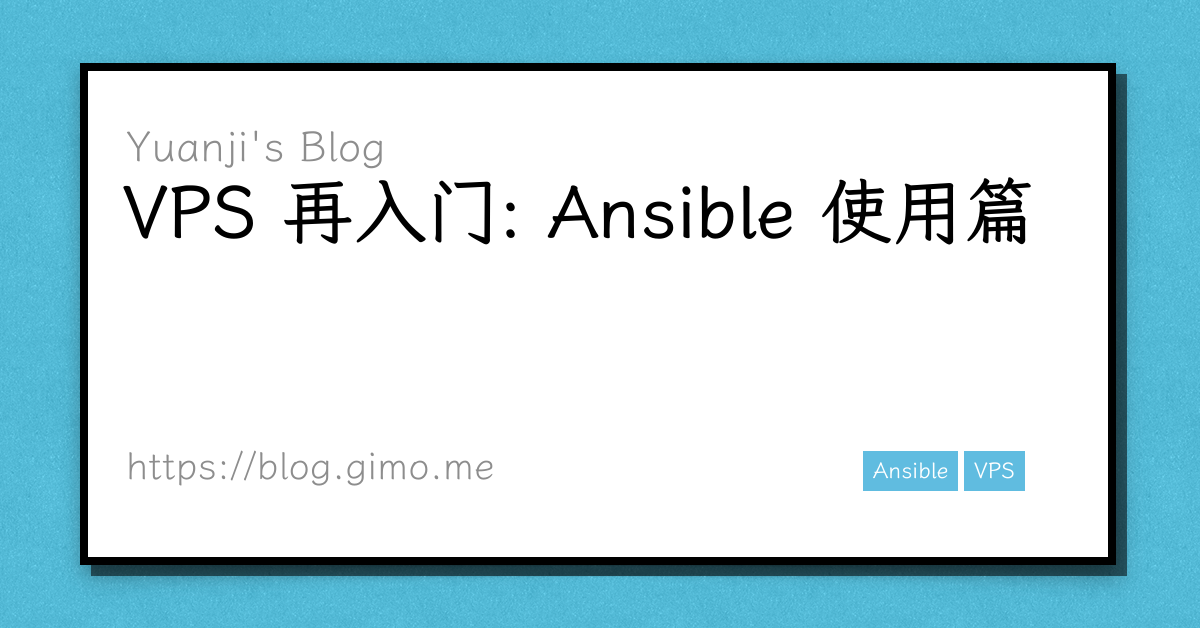
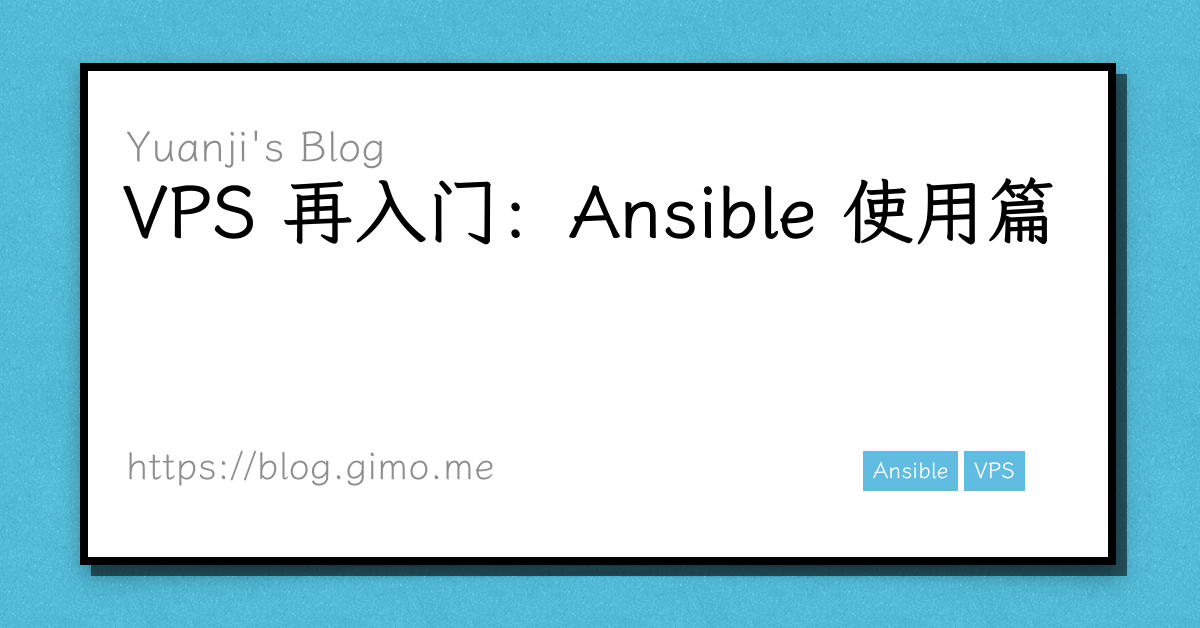
feat(cover): add cover.sh to generate covers

Changed region(s): [[0.4008, 0.2723, 0.8942, 0.3933]]

diff --git a/README.md b/README.md
@@ -1,7 +1,8 @@
 # Yuanji's Blog
 
-共计 48 篇文章
+共计 49 篇文章
 ## 2021
+- 10-15 [VPS再入门：选购篇](content/posts/VPS再入门：选购篇/index.md)
 - 10-13 [给博客文章自动生成分享图](content/posts/给博客文章自动生成分享图/index.md)
 - 08-29 [动手写一个 Hugo 博客主题](content/posts/动手写一个Hugo主题/index.md)
 - 04-25 [Vehicle](content/posts/Vehicle/index.md)
@@ -19,8 +20,8 @@
 ## 2019
 - 12-11 [使用 DokuWiki 的感受](content/posts/使用DokuWiki的感受/index.md)
 - 10-25 [令和元年中途转职记录](content/posts/令和元年中途转职记录/index.md)
-- 10-22 [VPS 再入门: 自建服务篇](content/posts/VPS再入门：自建服务篇/index.md)
-- 10-19 [VPS 再入门: Ansible 使用篇](content/posts/VPS再入门：Ansible使用篇/index.md)
+- 10-22 [VPS 再入门：自建服务篇](content/posts/VPS再入门：自建服务篇/index.md)
+- 10-19 [VPS 再入门：Ansible 使用篇](content/posts/VPS再入门：Ansible使用篇/index.md)
 - 07-23 [NEET Diary 11: 三週目](content/posts/NEETDiary11：三週目/index.md)
 - 07-19 [自由研究 1: 字体料理](content/posts/自由研究1：字体料理/index.md)
 - 07-17 [自由研究 0: 字体（fontconfig 編）](content/posts/自由研究0：字体（fontconfig編）/index.md)
